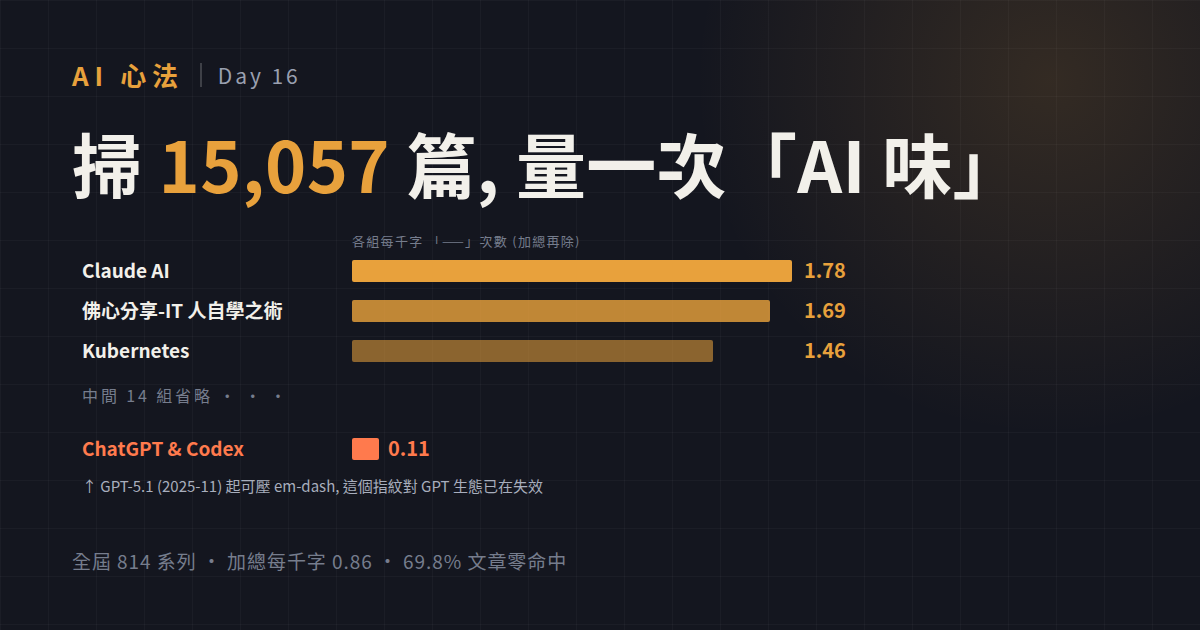
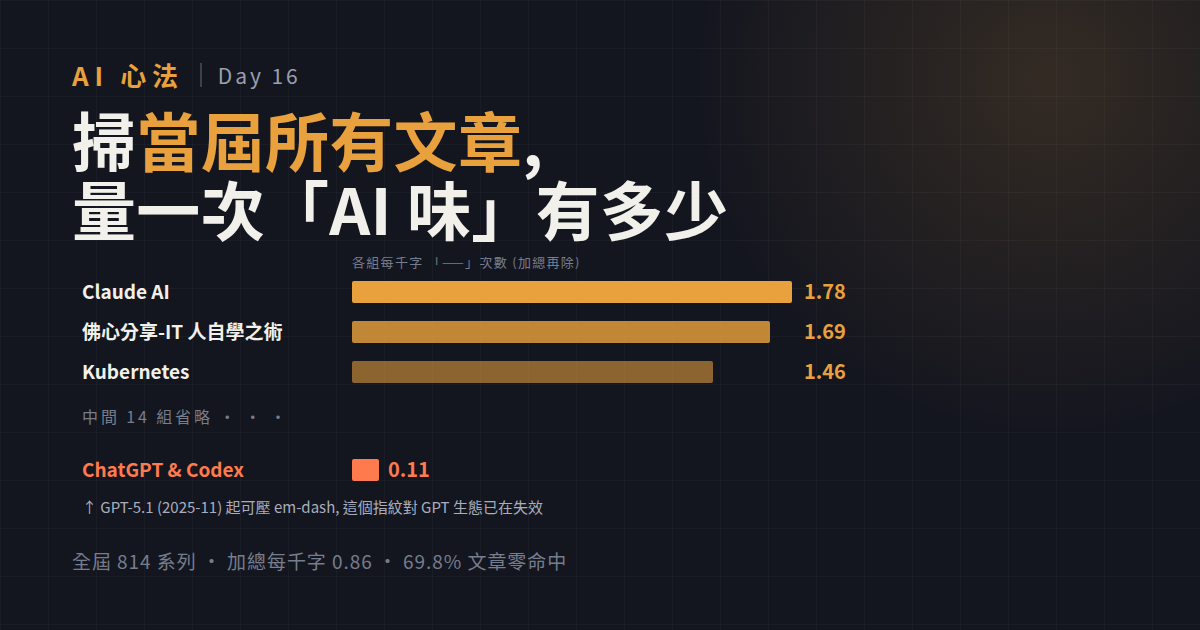
Day 16 publish + cover: 標題改「掃當屆所有文章, 量一次「AI 味」有多少」
- publish title 換掉
- cover H1 兩行版, em 標「當屆所有文章」, 字級 70→64 塞得下
- 重繪 PNG

Changed region(s): [[0.0617, 0.181, 0.8325, 0.6333], [0.0617, 0.4222, 0.4625, 0.8143]]

diff --git a/05-notes/ironman/assets/cover-day16.html b/05-notes/ironman/assets/cover-day16.html
@@ -12,7 +12,7 @@ body{width:1200px;height:630px;font-family:"Noto Sans CJK TC",sans-serif;
 .mark{font-size:26px;font-weight:700;letter-spacing:.22em;color:#e8a13c}
 .bar{width:2px;height:24px;background:#ffffff2e}
 .day{font-size:21px;letter-spacing:.14em;color:#9aa0b0}
-h1{font-size:70px;font-weight:900;line-height:1.05;letter-spacing:.005em}
+h1{font-size:64px;font-weight:900;line-height:1.08;letter-spacing:.005em}
 h1 em{font-style:normal;color:#e8a13c}
 .chartwrap{margin-bottom:4px;margin-top:4px}
 .foot{font-size:19px;color:#767d8d;letter-spacing:.05em}
@@ -22,7 +22,7 @@ text{font-family:"Noto Sans CJK TC",sans-serif}
 <div class="wrap">
   <div class="top"><span class="mark">AI 心法</span><span class="bar"></span><span class="day">Day 16</span></div>
   <div>
-    <h1>掃 <em>15,057</em> 篇, 量一次「AI 味」</h1>
+    <h1>掃<em>當屆所有文章</em>,<br>量一次「AI 味」有多少</h1>
   </div>
   <div class="chartwrap">
   <svg width="1056" height="270" viewBox="0 0 1056 270">

diff --git a/05-notes/ironman/publish/day16-20/day16-ithome.md b/05-notes/ironman/publish/day16-20/day16-ithome.md
@@ -1,4 +1,4 @@
-title : [Day 16] 掃 15,057 篇, 量一次「AI 味」有多少
+title : [Day 16] 掃當屆所有文章, 量一次「AI 味」有多少
 
 
 ## 為什麼講這個 — Why This Matters
